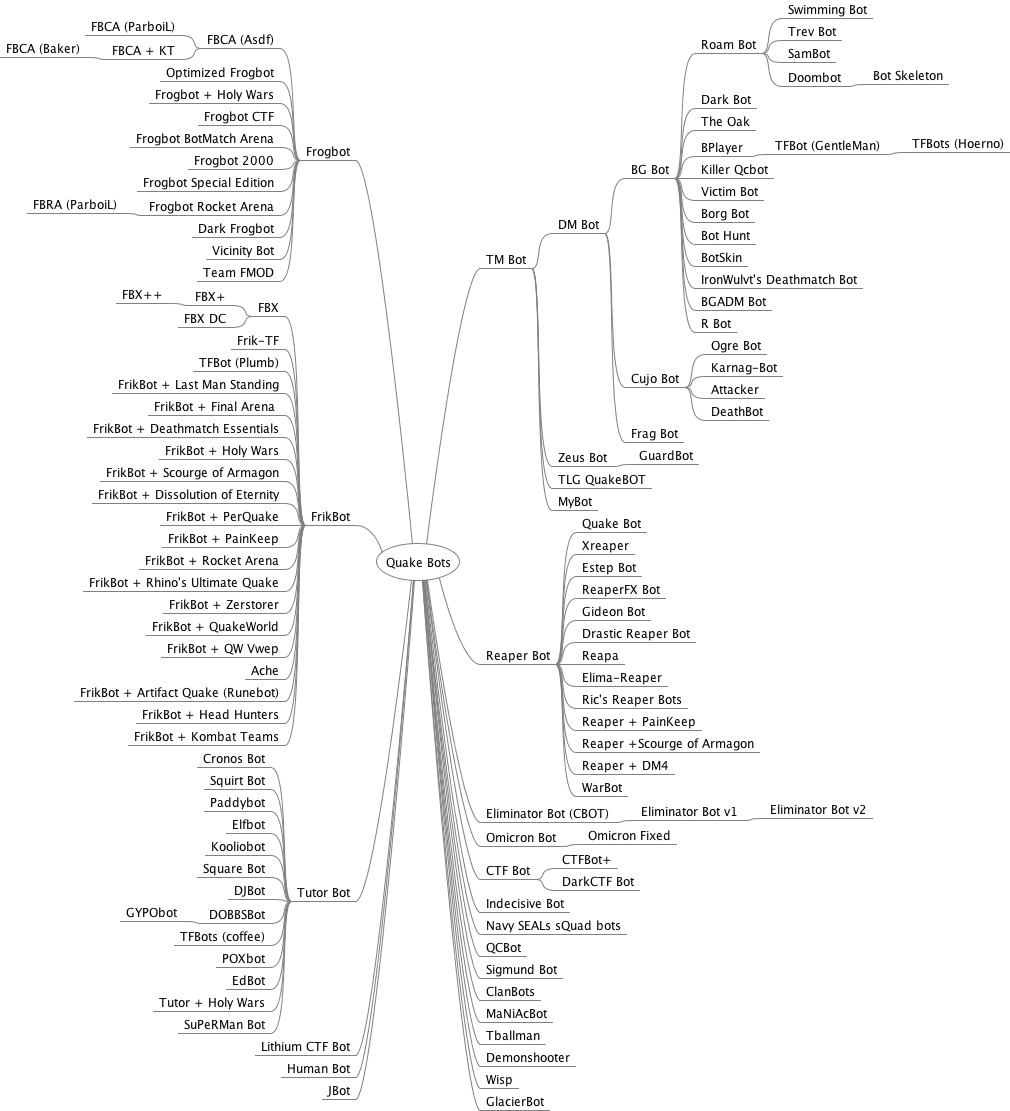
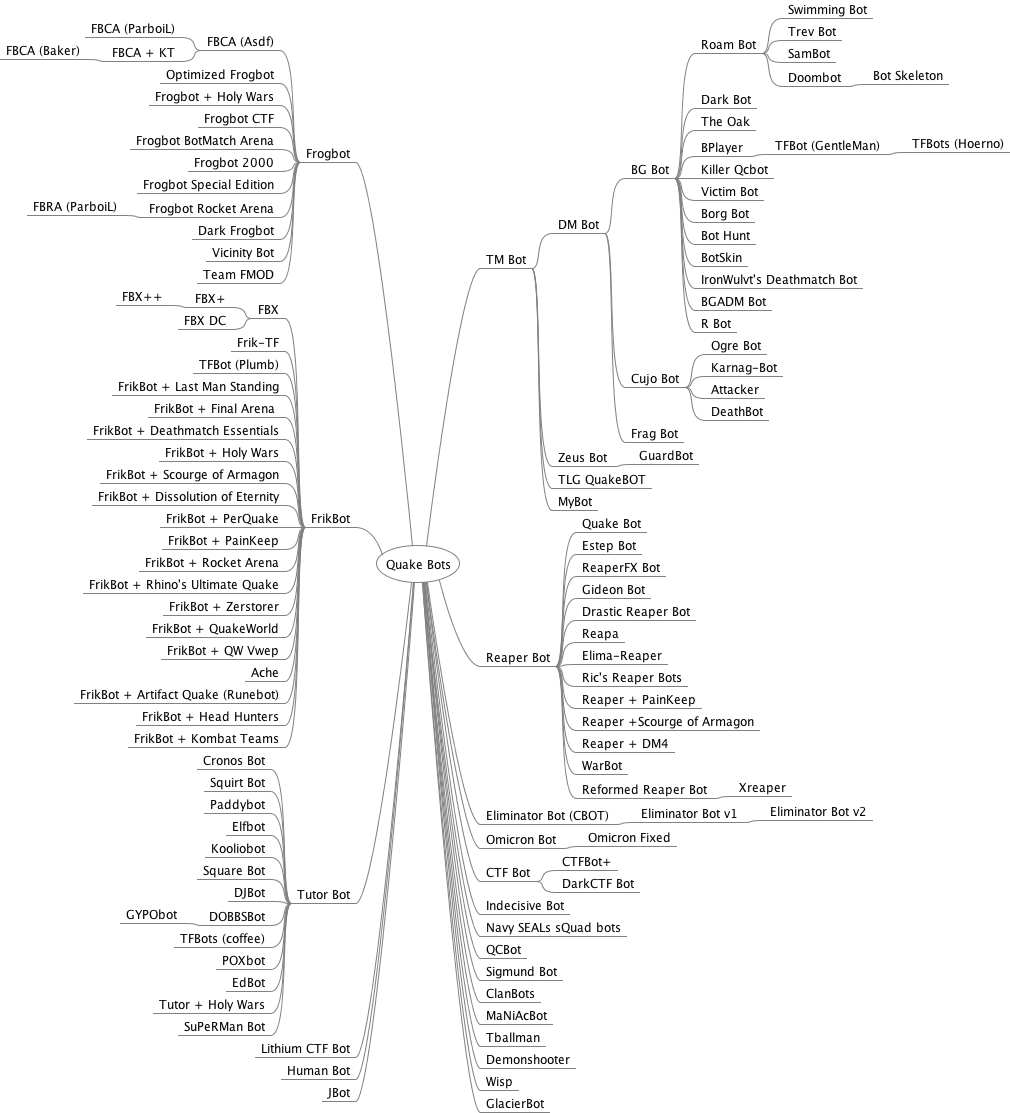
added Reformed Reaper Bot

diff --git a/mindmap/QuakeBots.mm b/mindmap/QuakeBots.mm
@@ -42,9 +42,8 @@
 <node CREATED="1622853414387" ID="ID_869484143" MODIFIED="1622853424044" TEXT="TLG QuakeBOT"/>
 <node CREATED="1622925929509" ID="ID_1590023145" MODIFIED="1622925932553" TEXT="MyBot"/>
 </node>
-<node CREATED="1622514191836" ID="ID_937776968" MODIFIED="1623191858163" POSITION="right" TEXT="Reaper Bot">
+<node CREATED="1622514191836" ID="ID_937776968" MODIFIED="1624235984908" POSITION="right" TEXT="Reaper Bot">
 <node CREATED="1622591700948" ID="ID_1772656642" MODIFIED="1622679969616" TEXT="Quake Bot"/>
-<node CREATED="1622593071377" ID="ID_561622825" MODIFIED="1622593075037" TEXT="Xreaper"/>
 <node CREATED="1622593594030" ID="ID_97271700" MODIFIED="1622593595644" TEXT="Estep Bot"/>
 <node CREATED="1622594033428" ID="ID_466163906" MODIFIED="1622594034554" TEXT="ReaperFX Bot"/>
 <node CREATED="1622594496177" ID="ID_1512770589" MODIFIED="1622594497250" TEXT="Gideon Bot"/>
@@ -56,6 +55,9 @@
 <node CREATED="1622683913824" ID="ID_329641328" MODIFIED="1624059260451" TEXT="Reaper +Scourge of Armagon"/>
 <node CREATED="1623191858163" ID="ID_668069096" MODIFIED="1623191859440" TEXT="Reaper + DM4"/>
 <node CREATED="1624235341440" ID="ID_313945555" MODIFIED="1624235343823" TEXT="WarBot"/>
+<node CREATED="1624235985408" ID="ID_1341417054" MODIFIED="1624235986320" TEXT="Reformed Reaper Bot">
+<node CREATED="1622593071377" ID="ID_561622825" MODIFIED="1622593075037" TEXT="Xreaper"/>
+</node>
 </node>
 <node CREATED="1622759700522" ID="ID_678656323" MODIFIED="1622761575130" POSITION="right" TEXT="Eliminator Bot (CBOT)">
 <node CREATED="1622760633864" ID="ID_468304243" MODIFIED="1622760636889" TEXT="Eliminator Bot v1">

diff --git a/README.md b/README.md
@@ -110,6 +110,7 @@ Reaper + Painkeep | Bent Svendsen aka "Decker" | [pkbot.zip](bin/pkbot.zip) (-)
 Reaper + Scourge of Armagon | Bent Svendsen aka "Decker" | [hipreap3.zip](bin/hipreap3.zip) (-)
 Reaper Bot | Steven Polge | [reaprb81.zip](bin/reaprb81.zip)<br>[reaper80.zip](bin/reaper80.zip)<br>reaprb75.zip<br>[reaprb07.zip](bin/reaprb07.zip)<br>[reaprb06.zip](bin/reaprb06.zip)<br>reaprb05.zip
 ReaperFX Bot | A. W. Johnstone aka "Pob the Impaler" | [reaperfx.zip](bin/reaperfx.zip)
+Reformed Reaper Bot | "win32ch" | [rrbotprogs.zip](bin/rrbotprogs.zip) (-)<br>[rrbotsrc.zip](bin/rrbotsrc.zip)
 Ric's Reaper Bots | "Ric" | [reap081h.zip](bin/reap081h.zip) ($)
 Roam Bot | Carson Sutton aka "Crimson" | [roambot1.zip](bin/roambot1.zip) ($)
 SamBot | Sam Stephens aka "Spam-man" | [sambot.zip](bin/sambot.zip)
